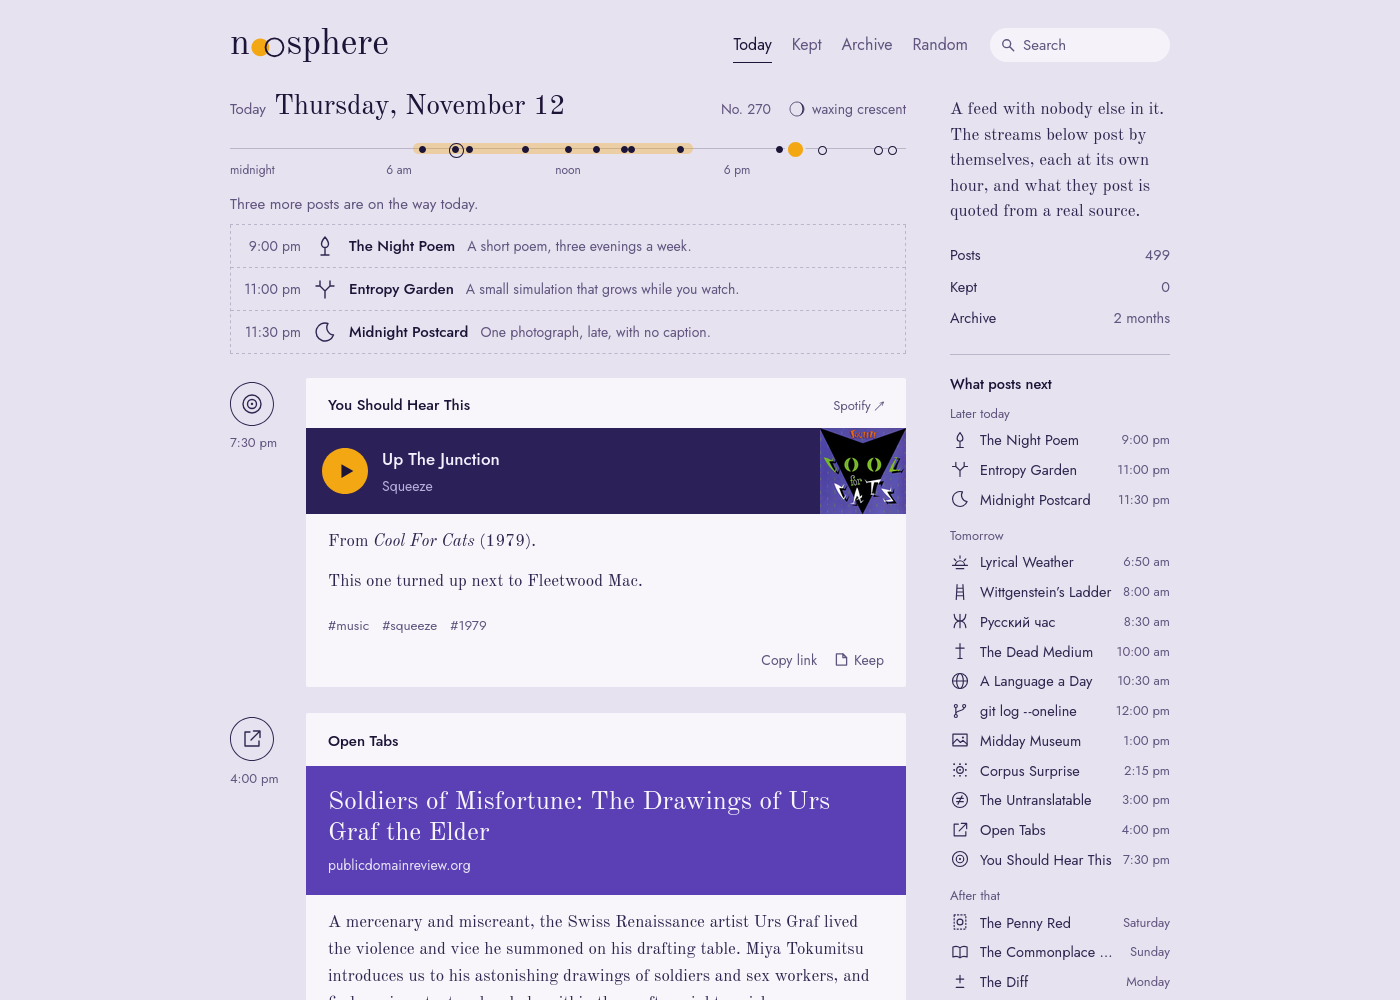
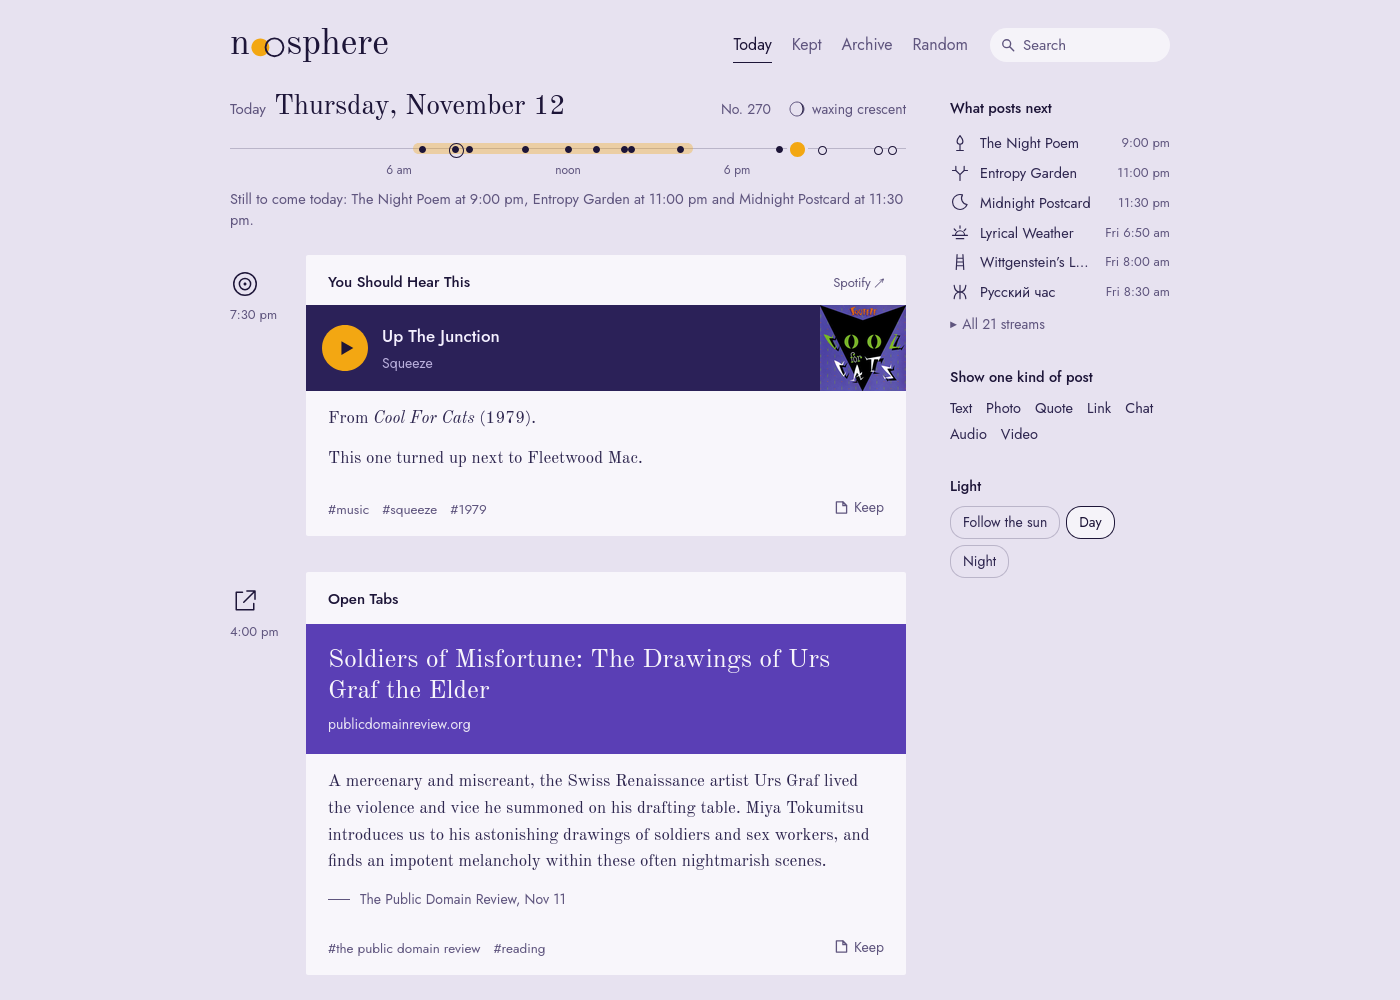
Almanac: quieter page
Say what is still to come once, as a sentence under today's line, instead
of a boxed list plus a full programme in the sidebar. Drop the ring around
each sigil, the copy-link button, the about blurb and stats, the archive
picture, the key hints and the night stars. Tags and Keep share one row,
and the sidebar shows the next six streams with the rest folded away.

diff --git a/public/style.css b/public/style.css
@@ -64,19 +64,6 @@ body {
   -webkit-font-smoothing: antialiased;
   overflow-wrap: break-word;
 }
-/* A handful of fixed stars, and nothing else, once the sun is down. */
-[data-theme="night"] body {
-  background-image:
-    radial-gradient(1px 1px at 12% 18%, #fff 50%, transparent 51%),
-    radial-gradient(1px 1px at 71% 9%, #cfd6ff 50%, transparent 51%),
-    radial-gradient(1.5px 1.5px at 38% 62%, #fff 50%, transparent 51%),
-    radial-gradient(1px 1px at 86% 47%, #ffe9c9 50%, transparent 51%),
-    radial-gradient(1px 1px at 23% 86%, #cfd6ff 50%, transparent 51%),
-    radial-gradient(1.5px 1.5px at 59% 33%, #fff 50%, transparent 51%),
-    radial-gradient(1px 1px at 93% 81%, #fff 50%, transparent 51%);
-  background-size: 460px 460px;
-}
-
 a { color: var(--violet); }
 img { max-width: 100%; }
 button { font: inherit; color: inherit; }
@@ -90,7 +77,6 @@ button { font: inherit; color: inherit; }
 /* The stream marks. One weight of line, drawn in whatever ink surrounds them. */
 .sigil { display: block; width: 24px; height: 24px; fill: none; stroke: currentColor; stroke-width: 1.4; stroke-linecap: round; stroke-linejoin: round; }
 .sigil .f { fill: currentColor; stroke: none; }
-.seal { display: grid; place-items: center; width: 44px; height: 44px; border: 1px solid currentColor; border-radius: 50%; color: var(--ink); flex: none; }
 
 /* ------------------------------------------------------------- top bar */
 
@@ -178,31 +164,22 @@ button { font: inherit; color: inherit; }
 .dayline button.dot.ret:hover::after { background: none; }
 .dayline .now { position: absolute; top: 16px; width: 15px; height: 15px; margin: -7.5px 0 0 -7.5px; border-radius: 50%; background: var(--sun); box-shadow: 0 0 0 3px var(--page); pointer-events: none; }
 .dayline .hr { position: absolute; top: 28px; transform: translateX(-50%); font-size: 12px; color: var(--meta); white-space: nowrap; }
-.dayline .hr.start { transform: none; }
-.dayline .hr.end { transform: translateX(-100%); }
 
-/* Posts that have not arrived yet. */
-.tocome { margin: 14px 0 0; }
-.tocome > p { margin: 0 0 8px; color: var(--meta); }
-.tocome ol { list-style: none; margin: 0; padding: 0; border: 1px dashed var(--line); }
-.tocome li { display: grid; grid-template-columns: 70px 24px minmax(0, auto) minmax(0, 1fr); gap: 0 12px; align-items: center; padding: 9px 16px 9px 0; }
-.tocome li + li { border-top: 1px dashed var(--line); }
-.tocome time { text-align: right; color: var(--meta); font-size: 14px; white-space: nowrap; }
-.tocome b { font-weight: 500; color: var(--ink-strong); white-space: nowrap; }
-.tocome span { color: var(--meta); font-size: 14px; overflow: hidden; text-overflow: ellipsis; white-space: nowrap; }
+.tocome { margin: 8px 0 0; color: var(--meta); font-size: 14.5px; }
 
 /* --------------------------------------------------------------- posts */
 
-.post { display: grid; grid-template-columns: var(--gutter) minmax(0, 1fr); align-items: start; margin-bottom: 26px; scroll-margin-top: 20px; }
-.margin { position: sticky; top: 18px; display: grid; justify-items: start; gap: 7px; padding-top: 4px; }
-.margin .seal { text-decoration: none; transition: background-color .12s; }
-.margin .seal:hover { background: var(--sun); color: #1d1538; border-color: #1d1538; }
+.post { display: grid; grid-template-columns: var(--gutter) minmax(0, 1fr); align-items: start; margin-bottom: 36px; scroll-margin-top: 20px; }
+.margin { position: sticky; top: 18px; display: grid; justify-items: start; gap: 6px; padding-top: 14px; }
+.mark { color: var(--ink-strong); }
+.mark .sigil { width: 30px; height: 30px; stroke-width: 1.2; }
+.mark:hover { color: var(--violet); }
 .margin .when { color: var(--meta); font-size: 13px; text-decoration: none; white-space: nowrap; }
 .margin .when:hover { color: var(--ink-strong); text-decoration: underline; }
 
 .card { position: relative; min-width: 0; background: var(--paper); color: var(--ink); border-radius: 2px; }
 .phead { display: flex; align-items: baseline; gap: 4px 12px; flex-wrap: wrap; padding: 16px var(--pad) 0; font-size: 15px; }
-.phead .mini { display: none; }
+.phead .mini, .phead .when { display: none; }
 .hy { display: inline-block; width: .14em; }
 .blog { color: var(--ink-strong); font-weight: 500; text-decoration: none; }
 .blog:hover { text-decoration: underline; }
@@ -355,14 +332,11 @@ details.more[open] summary { margin-bottom: 10px; }
 .tracklist span { color: var(--meta); display: block; font-size: 13.5px; }
 canvas.garden { display: block; width: 100%; height: auto; background: #1e1e2e; }
 
-.tags { list-style: none; margin: 0; padding: 4px var(--pad) 0; display: flex; flex-wrap: wrap; gap: 2px 13px; }
+.pfoot { display: flex; align-items: baseline; gap: 16px; padding: 6px var(--pad) 14px; }
+.tags { list-style: none; margin: 0; padding: 0; display: flex; flex-wrap: wrap; gap: 2px 13px; min-width: 0; }
 .tags a { color: var(--meta); text-decoration: none; font-size: 13.5px; }
 .tags a:hover { color: var(--violet); }
-
-.pfoot { display: flex; align-items: center; gap: 12px; padding: 8px var(--pad) 12px; min-height: 46px; }
-.pfoot .when { display: none; color: var(--meta); font-size: 13.5px; text-decoration: none; }
-.acts { margin-left: auto; display: flex; gap: 18px; }
-.act { border: 0; background: none; padding: 5px 0; cursor: pointer; color: var(--meta); font-size: 14px; display: inline-flex; align-items: center; gap: 6px; }
+.act { margin-left: auto; flex: none; border: 0; background: none; padding: 4px 0; cursor: pointer; color: var(--meta); font-size: 14px; display: inline-flex; align-items: center; gap: 6px; }
 .act:hover { color: var(--ink-strong); }
 .act svg { width: 13px; height: 13px; fill: none; stroke: currentColor; stroke-width: 1.4; stroke-linejoin: round; }
 .act.like[aria-pressed="true"] { color: var(--ink-strong); }
@@ -384,7 +358,6 @@ canvas.garden { display: block; width: 100%; height: auto; background: #1e1e2e; 
 .empty { padding: 40px 24px; border: 1px dashed var(--line); color: var(--ink); }
 
 .single .day { display: none; }
-.single .pfoot .when { display: block; }
 
 /* ------------------------------------------------------------- archive */
 
@@ -414,15 +387,11 @@ body[data-view="archive"] .side { display: none; }
   position: sticky; top: 16px; max-height: calc(100vh - 32px); overflow-y: auto; scrollbar-width: none;
 }
 .side::-webkit-scrollbar { display: none; }
-.side section { padding-bottom: 20px; margin-bottom: 18px; border-bottom: 1px solid var(--line); }
+.side section { margin-bottom: 30px; }
 .side h2 { margin: 0 0 10px; font: 500 14.5px var(--ui); color: var(--ink-strong); }
-.about p { margin: 0 0 14px; font: 17px/1.5 var(--text); color: var(--ink); }
-.stats, .streams { list-style: none; margin: 0; padding: 0; }
-.stats a { display: flex; justify-content: space-between; padding: 5px 0; color: var(--ink); text-decoration: none; }
-.stats a:hover span { text-decoration: underline; }
-.stats b { color: var(--meta); font-weight: 400; }
-.side h3 { margin: 12px 0 2px; font: 400 13px var(--ui); color: var(--meta); }
-.side h2 + h3 { margin-top: 0; }
+.rest summary { cursor: pointer; color: var(--meta); font-size: 14px; padding: 6px 0 2px; width: fit-content; }
+.rest summary:hover { color: var(--ink-strong); }
+.streams { list-style: none; margin: 0; padding: 0; }
 .streams a { display: grid; grid-template-columns: 20px minmax(0, 1fr) auto; align-items: center; gap: 10px; padding: 4px 0; color: var(--ink); text-decoration: none; }
 .streams .sigil { width: 20px; height: 20px; }
 .streams b { font-weight: 400; overflow: hidden; text-overflow: ellipsis; white-space: nowrap; }
@@ -432,14 +401,9 @@ body[data-view="archive"] .side { display: none; }
 .tb { color: var(--ink); text-decoration: none; }
 .tb:hover { text-decoration: underline; }
 .tb[aria-current="true"] { color: var(--ink-strong); font-weight: 500; text-decoration: underline; text-decoration-color: var(--sun); text-decoration-thickness: 2px; text-underline-offset: 3px; }
-.radar a { display: block; color: var(--meta); text-decoration: none; font-size: 13px; }
-.radar img { display: block; width: 100%; aspect-ratio: 4 / 3; object-fit: cover; margin-bottom: 6px; background: var(--field); }
 .themes { display: flex; gap: 6px; flex-wrap: wrap; }
 .themes button { padding: 5px 12px; border: 1px solid var(--line); border-radius: 15px; background: none; color: var(--ink); font-size: 14px; cursor: pointer; }
 .themes button[aria-checked="true"] { border-color: var(--ink-strong); color: var(--ink-strong); background: var(--field); }
-.colophon { color: var(--meta); font-size: 13px; line-height: 1.7; margin: 0; }
-kbd { font: 500 11.5px var(--ui); padding: 1px 5px; border: 1px solid var(--line); border-radius: 3px; }
-
 .totop {
   position: fixed; right: 20px; bottom: 20px; padding: 8px 15px; border: 1px solid var(--ink-strong); border-radius: 18px;
   background: var(--paper); color: var(--ink-strong); font-size: 14px; cursor: pointer;
@@ -479,14 +443,12 @@ kbd { font: 500 11.5px var(--ui); padding: 1px 5px; border: 1px solid var(--line
   .day h2 { font-size: 25px; flex-basis: 100%; }
   .day-meta { font-size: 13.5px; }
   .dayline .hr { font-size: 11.5px; }
-  .tocome li { grid-template-columns: 62px 22px minmax(0, 1fr); padding-right: 12px; }
-  .tocome span { display: none; }
-  .post { display: block; margin-bottom: 16px; }
+  .post { display: block; margin-bottom: 20px; }
   .margin { display: none; }
   .phead { align-items: center; padding-top: 13px; }
-  .phead .mini { display: grid; width: 30px; height: 30px; margin-right: -2px; }
-  .phead .mini .sigil { width: 18px; height: 18px; }
-  .pfoot .when { display: block; }
+  .phead .mini { display: block; color: var(--ink-strong); margin-right: -2px; }
+  .phead .mini .sigil { width: 22px; height: 22px; }
+  .phead .when { display: block; color: var(--meta); font-size: 13.5px; text-decoration: none; }
   .pbody { font-size: 17px; }
   .q { font-size: 23px; }
   .q.long { font-size: 19px; }

diff --git a/public/app.js b/public/app.js
@@ -695,19 +695,15 @@ function postHTML(it) {
     ? `<ul class="tags">${it._tags.map(t => `<li><a href="#/tagged/${encodeURIComponent(t)}">#${esc(t)}</a></li>`).join('')}</ul>` : '';
   return `<article class="post k-${it._kind} s-${esc(it.type)}${r.flush ? ' flush' : ''}${it.echo ? ' returns' : ''}${kept ? ' kept' : ''}" id="p-${it._id}" data-id="${it._id}" tabindex="-1">
   <div class="margin">
-    <a class="seal" href="${streamHref}" title="${esc(s.name)}" aria-hidden="true" tabindex="-1">${s.sigil}</a>
+    <a class="mark" href="${streamHref}" title="${esc(s.name)}" aria-hidden="true" tabindex="-1">${s.sigil}</a>
     <a class="when" href="#/post/${it._id}" title="Open this post by itself">${clock(it._date)}</a>
   </div>
   <div class="card">
-    <header class="phead"><span class="seal mini">${s.sigil}</span><a class="blog" href="${streamHref}">${nameHTML(s)}</a>${returning}${src}</header>
+    <header class="phead"><span class="mini">${s.sigil}</span><a class="blog" href="${streamHref}">${nameHTML(s)}</a>${returning}<a class="when" href="#/post/${it._id}">${clock(it._date)}</a>${src}</header>
     <div class="pbody">${r.body}</div>
-    ${tags}
     <footer class="pfoot">
-      <a class="when" href="#/post/${it._id}">${shortDate(it._date)}, ${clock(it._date)}</a>
-      <span class="acts">
-        <button class="act copy" type="button">Copy link</button>
-        <button class="act like" type="button" aria-pressed="${kept}">${ICON.keep}<span>${kept ? 'Kept' : 'Keep'}</span></button>
-      </span>
+      ${tags}
+      <button class="act like" type="button" aria-pressed="${kept}">${ICON.keep}<span>${kept ? 'Kept' : 'Keep'}</span></button>
     </footer>
     <span class="ear" aria-hidden="true"></span>
   </div>
@@ -739,7 +735,7 @@ function dayLine(d, today, now) {
   if (rise != null && set != null && set > rise) {
     line += `<span class="light" style="left:${pct(rise)}%;width:${pct(set - rise)}%" title="The sun is up from ${esc(wx.sunrise)} to ${esc(wx.sunset)}"></span>`;
   }
-  line += '<span class="hr start" style="left:0">midnight</span><span class="hr" style="left:25%">6 am</span><span class="hr" style="left:50%">noon</span><span class="hr" style="left:75%">6 pm</span>';
+  line += '<span class="hr" style="left:25%">6 am</span><span class="hr" style="left:50%">noon</span><span class="hr" style="left:75%">6 pm</span>';
   for (const it of items.slice().reverse()) {
     const label = `${it._stream.name}${it.echo ? ', returning' : ''}, ${clock(it._date)}`;
     line += `<button class="dot${it.echo ? ' ret' : ''}" type="button" data-go="${it._id}" style="left:${pct(mins(it._date))}%" title="${esc(label)}" aria-label="Go to ${esc(label)}"></button>`;
@@ -754,12 +750,8 @@ function dayLine(d, today, now) {
     line += `<span class="now" style="left:${pct(mins(now))}%" title="Now"></span>`;
   }
   let html = `<div class="dayline">${line}</div>`;
-  if (today) {
-    const count = ['No', 'One', 'Two', 'Three', 'Four', 'Five', 'Six', 'Seven', 'Eight', 'Nine'][coming.length] || coming.length;
-    html += coming.length
-      ? `<div class="tocome"><p>${count} more ${coming.length === 1 ? 'post is' : 'posts are'} on the way today.</p><ol>${coming.map(s =>
-          `<li><time>${clock(slot(s, d))}</time>${s.sigil}<b>${nameHTML(s)}</b><span>${esc(s.about)}</span></li>`).join('')}</ol></div>`
-      : `<div class="tocome"><p>Everything due today has arrived.</p></div>`;
+  if (today && coming.length) {
+    html += `<p class="tocome">Still to come today: ${listOf(coming.map(s => `${nameHTML(s)} at ${clock(slot(s, d))}`))}.</p>`;
   }
   return html;
 }
@@ -899,44 +891,30 @@ function renderSidebar() {
   const now = new Date();
   const next = new Map(STREAM_LIST.map(s => [s, nextPost(s, now)]));
   const streams = STREAM_LIST.slice().sort((a, b) => (next.get(a) || Infinity) - (next.get(b) || Infinity));
-  // The streams as a programme: later today, tomorrow, then the rest by day.
+  // The streams in the order they will post. Six show, the rest fold away.
   const dayStart = d => new Date(d.getFullYear(), d.getMonth(), d.getDate());
-  const groups = [['Later today', []], ['Tomorrow', []], ['After that', []]];
-  for (const s of streams) {
+  const rows = streams.filter(s => next.get(s)).map(s => {
     const t = next.get(s);
-    if (!t) continue;
     const away = Math.round((dayStart(t) - dayStart(now)) / 864e5);
-    const when = away < 2 ? clock(t) : away < 7 ? DAYS[t.getDay()] : shortDate(t);
-    groups[Math.min(away, 2)][1].push(`<li><a href="#/stream/${s.blog}" title="${esc(s.about)}">${s.sigil}<b>${nameHTML(s)}</b><i>${when}</i></a></li>`);
-  }
-  const programme = groups.filter(g => g[1].length).map(g => `<h3>${g[0]}</h3><ul class="streams">${g[1].join('')}</ul>`).join('');
-  const pics = state.items.filter(it => it._kind === 'photo' && thumbUrl(it) && it.type !== 'typeface');
-  const radar = pics.length ? pics[Math.floor(Math.random() * pics.length)] : null;
+    const when = away === 0 ? clock(t) : away < 7 ? `${DAYS[t.getDay()].slice(0, 3)} ${clock(t)}` : shortDate(t);
+    return `<li><a href="#/stream/${s.blog}" title="${esc(s.about)}">${s.sigil}<b>${nameHTML(s)}</b><i>${when}</i></a></li>`;
+  });
   const light = store.get('noosphere.light', 'sun');
 
   $('#sidebar').innerHTML = `
-  <section class="about">
-    <p>A feed with nobody else in it. The streams below post by themselves, each at its own hour, and what they post is quoted from a real source.</p>
-    <ul class="stats">
-      <li><a href="#/"><span>Posts</span><b>${state.items.length}</b></a></li>
-      <li><a href="#/kept"><span>Kept</span><b id="likeCount">${state.likes.size}</b></a></li>
-      <li><a href="#/archive"><span>Archive</span><b>${new Set(state.items.map(i => i.timestamp.slice(0, 7))).size} months</b></a></li>
-    </ul>
-  </section>
   <section>
     <h2>What posts next</h2>
-    ${programme}
+    <ul class="streams">${rows.slice(0, 6).join('')}</ul>
+    ${rows.length > 6 ? `<details class="rest"><summary>All ${rows.length} streams</summary><ul class="streams">${rows.slice(6).join('')}</ul></details>` : ''}
   </section>
   <section>
     <h2>Show one kind of post</h2>
     <nav class="typebar" id="typebar" aria-label="Filter by kind of post"></nav>
   </section>
-  ${radar ? `<section class="radar"><h2>Pulled from the archive</h2><a href="#/post/${radar._id}"><img src="${thumbUrl(radar)}" alt="${esc(radar.title || radar.alt || 'A photo post from the archive')}" loading="lazy"><span>${esc(radar._stream.name)}, ${shortDate(radar._date)}</span></a></section>` : ''}
   <section>
     <h2>Light</h2>
     <div class="themes" role="radiogroup" aria-label="Light">${LIGHTS.map(t => `<button type="button" role="radio" aria-checked="${t.id === light}" data-light="${t.id}">${t.label}</button>`).join('')}</div>
-  </section>
-  <p class="colophon">The keys <kbd>J</kbd> and <kbd>K</kbd> move between posts, <kbd>L</kbd> keeps one, and <kbd>/</kbd> opens search.</p>`;
+  </section>`;
 }
 
 function renderTypebar(r) {
@@ -1037,15 +1015,6 @@ postsEl.addEventListener('click', e => {
   const like = e.target.closest('.like');
   if (like) { toggleLike(it, post); return; }
 
-  const copy = e.target.closest('.copy');
-  if (copy) {
-    const url = location.origin + location.pathname + '#/post/' + it._id;
-    const done = () => { copy.textContent = 'Link copied'; setTimeout(() => { copy.textContent = 'Copy link'; }, 1600); };
-    if (navigator.clipboard && navigator.clipboard.writeText) navigator.clipboard.writeText(url).then(done, () => { location.hash = '#/post/' + it._id; });
-    else location.hash = '#/post/' + it._id;
-    return;
-  }
-
   const play = e.target.closest('.play');
   if (play) {
     const player = play.closest('.player');
@@ -1070,8 +1039,6 @@ function toggleLike(it, post) {
   $('span', btn).textContent = on ? 'Kept' : 'Keep';
   post.classList.toggle('kept', on);
   post.classList.toggle('pop', on);
-  const c = $('#likeCount');
-  if (c) c.textContent = state.likes.size;
 }
 
 $('#newPosts').addEventListener('click', () => {
@@ -1115,8 +1082,6 @@ document.addEventListener('error', e => {
     img.outerHTML = `<span class="snip" dir="auto">${esc(it ? snippet(it) : '')}</span>`;
     return;
   }
-  const radar = img.closest('.radar');
-  if (radar) { radar.hidden = true; return; }
   const pic = img.closest('.pic');
   if (pic) { pic.classList.add('broken'); pic.removeAttribute('style'); img.remove(); pic.textContent = 'The image did not load. This link opens it at its source.'; return; }
   img.remove();
